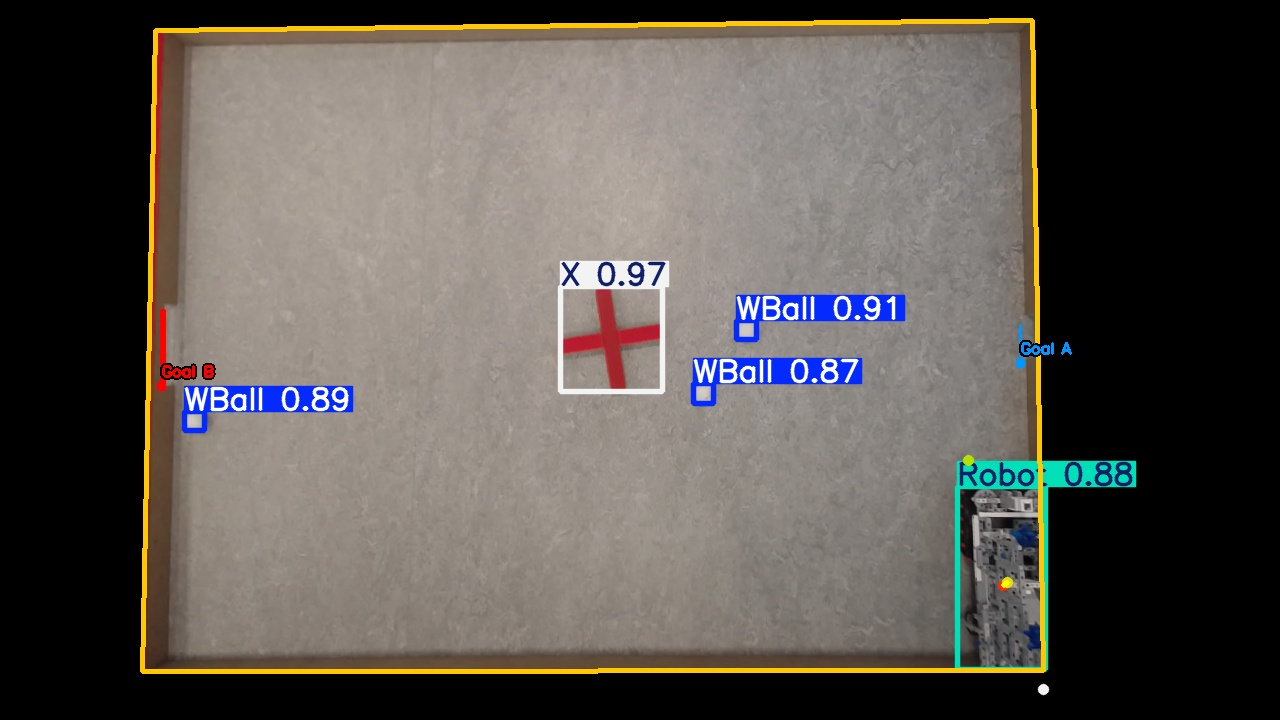
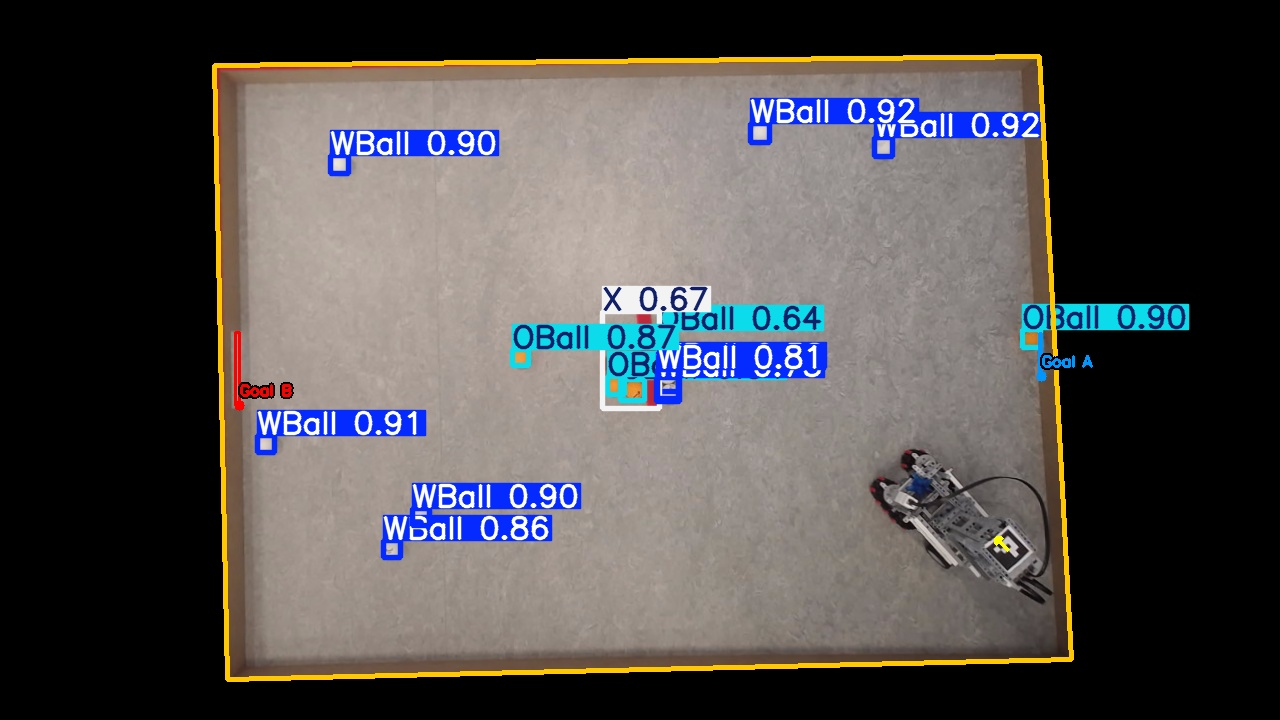
temps

diff --git a/image_recon/scripts/arena_tracker.py b/image_recon/scripts/arena_tracker.py
@@ -204,7 +204,7 @@ def _windows_find_camera() -> Optional[int]:
         return None
 
     for idx in range(10):
-        cap = cv2.VideoCapture(idx, cv2.CAP_DSHOW)
+        cap = cv2.VideoCapture(idx, cv2.CAP_MSMF)
         if not cap.isOpened():
             cap.release()
             continue
@@ -230,18 +230,27 @@ def _usb_enumerate(system: str) -> Optional[int]:
 
 def _scan_by_name(max_index: int) -> Optional[int]:
     system = platform.system()
-    backend = {
-        "Linux":   cv2.CAP_V4L2,
-        "Darwin":  cv2.CAP_AVFOUNDATION,
-        "Windows": cv2.CAP_DSHOW,
-    }.get(system, cv2.CAP_ANY)
+    backends = (
+        [cv2.CAP_MSMF] if system == "Windows"
+        else [cv2.CAP_V4L2]   if system == "Linux"
+        else [cv2.CAP_AVFOUNDATION] if system == "Darwin"
+        else [cv2.CAP_ANY]
+    )
 
     first_open: Optional[int] = None
 
     for idx in range(max_index):
-        cap = cv2.VideoCapture(idx, backend)
-        if not cap.isOpened():
+        cap = None
+        for backend in backends:
+            cap = cv2.VideoCapture(idx, backend)
+            if cap.isOpened():
+                break
             cap.release()
+            cap = None
+
+        if cap is None or not cap.isOpened():
+            if cap:
+                cap.release()
             continue
 
         if first_open is None:
